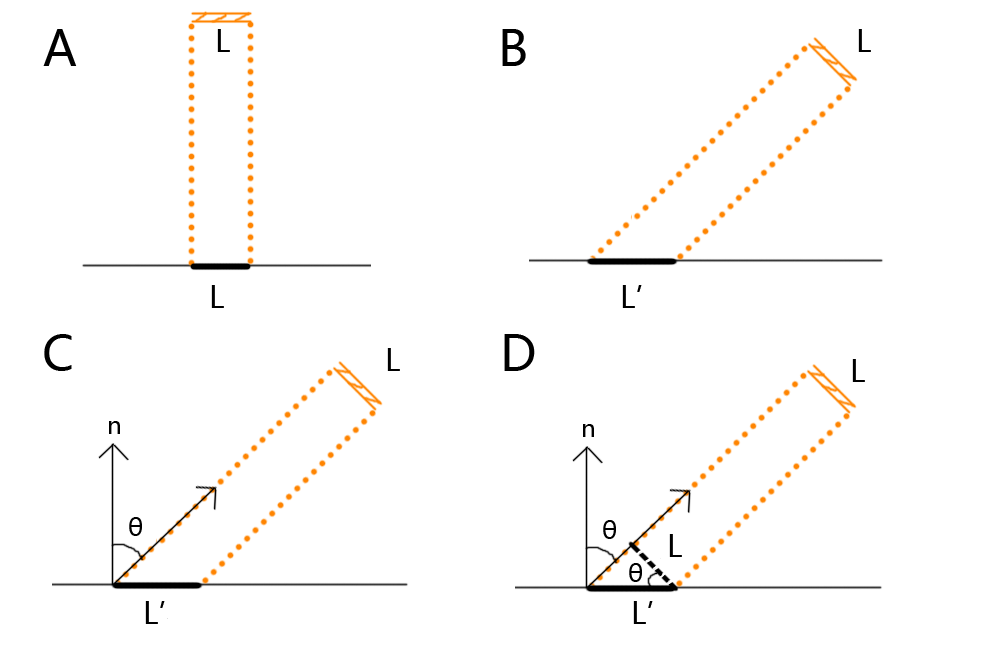
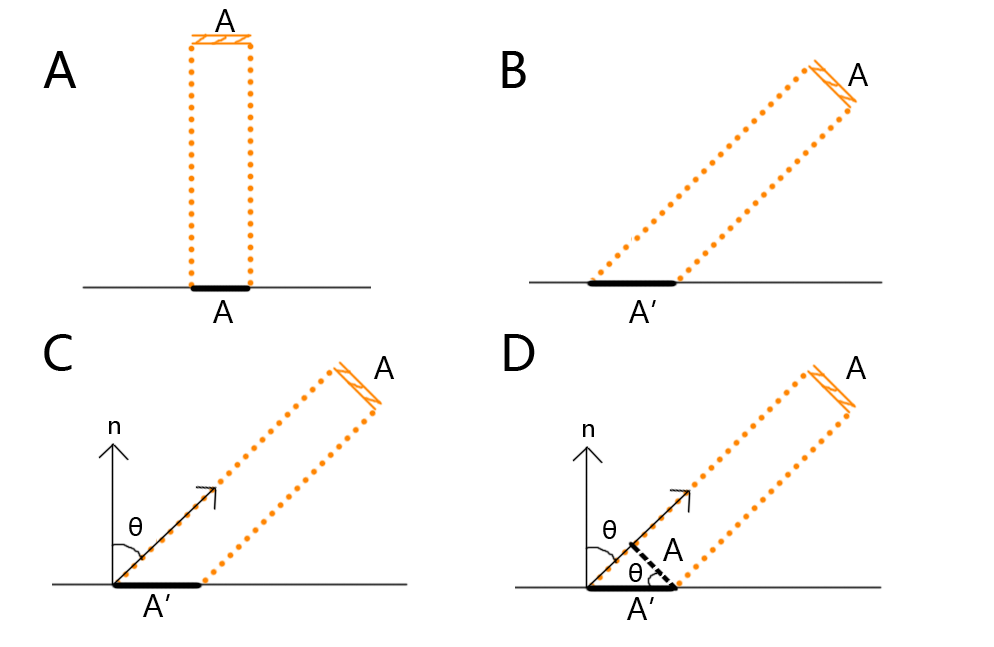
no message

diff --git a/_posts/2016-07-09-rendering-equation.md b/_posts/2016-07-09-rendering-equation.md
@@ -20,37 +20,39 @@ published: true
 
 ## 辐射密度(Irradiance) 和 辐射照度(Radiant Exitence)
 
-辐射密度也叫辐射度。定义了辐射通量后，就可以定义辐射度了，辐射度指的是单位面积**进入**的辐射通量，单位是\\(W\/m\^\{2\}\\)。根据这个定义用符号E表示。
+辐射密度也叫辐射照度。定义了辐射通量后，就可以定义辐射照度了，辐射照度指的是单位面积**进入**的辐射通量，单位是\\(W\/m\^\{2\}\\)。根据这个定义用符号E表示。
 
 辐射照度和辐射密度是近似的东西，辐射照度指的是单位面积**离开**的辐射通量，单位也是\\(W/m\^\{2\}\\)。用符号M表示。
 
-以上面的点光源来分析，可以知道上图中内圆圈的辐射度比外圆圈的辐射度大，这是因为内圆圈的面积更小而点光源的Flux值恒定，所以内圆圈的E值就大。
+以上面的点光源来分析，可以知道上图中内圆圈的辐射照度比外圆圈的辐射照度大，这是因为内圆圈的面积更小而点光源的Flux值恒定，所以内圆圈的E值就大。
 
 用公式表示：
 
 \\[ E = \\frac \{ 点光源辐射通量 \}\{ 球的表面积 \} =  \\frac \{\\Phi\}\{4\\pi r\^\{2\} \} \\]
 
-可见，W恒定，半径r越小，那么辐射度E越大。
+可见，W恒定，半径r越小，那么辐射照度E越大。
 
 当假设光源在无限远处时，可把光源认为是一块平面（这种光源叫方向光）。此时，光源平面与被照射平面存在2种情形：光源平面与被照射平面平行（下图中的A）、光源平面与被照射平面不平行（下图中的B）：
 
 ![5.png](../images/2016.7/5.png)
 
+(图中的平面附近的A指的是面积Area)
+
 当光源平面与被照射平面平行时，有：
 
-\\[ E\_\{1\} = \\frac \{\\Phi\}\{ L \} \\]
+\\[ E\_\{1\} = \\frac \{\\Phi\}\{ A \} \\]
 
-当光源平面与被照射平面不平行时，需要根据平面的法向量和光线方向的夹角θ，先求出\\( L\^\{'\} \\)：
+当光源平面与被照射平面不平行时，需要根据平面的法向量和光线方向的夹角θ，先求出\\( A\^\{'\} \\)：
 
-\\[ cos\\theta = \\frac \{ L \}\{ L\^\{'\} \}  \\]
+\\[ cos\\theta = \\frac \{ A \}\{ A\^\{'\} \}  \\]
 
-\\[ L\^\{'\}= \\frac \{ L \}\{ cos\\theta \}  \\]
+\\[ A\^\{'\}= \\frac \{ A \}\{ cos\\theta \}  \\]
 
 于是得到：
 
-\\[ E\_\{2\} = \\frac \{\\Phi\}\{ L\^\{'\} \} =  \\frac \{\\Phi\}\{ \\frac \{ L \}\{ cos\\theta \}  \} =  \frac \{  \\Phi  cos\\theta  \}\{ L \} \\]
+\\[ E\_\{2\} = \\frac \{\\Phi\}\{ A\^\{'\} \} =  \\frac \{\\Phi\}\{ \\frac \{ A \}\{ cos\\theta \}  \} =  \frac \{  \\Phi  cos\\theta  \}\{ A \} \\]
 
-根据这个式子，可以想到，当θ逼近0度时，cosθ等于1，法向量和光线方向平行（上图中的A）；当θ逼近90度时，cosθ等于0，辐射度E为0（光线垂直于法向量了）。
+根据这个式子，可以想到，当θ逼近0度时，cosθ等于1，法向量和光线方向平行（上图中的A）；当θ逼近90度时，cosθ等于0，辐射照度E为0（光线垂直于法向量了）。
 
 
 ## 立体角(Solid Angle)
@@ -67,3 +69,25 @@ published: true
 
 因为球体表面积等于\\( 4πr\^\{2\} \\)，所以上面的式子积分到整个球体的话，立体角等于4π。
 
+
+## 辐射强度(Intensity)
+
+辐射强度指**辐射通量和立体角**的比值，符号是I。注意，这里的立体角是有朝向性。
+
+\\[ I = \\frac \{ \\Phi \}\{d\\Omega \} \\]
+
+因为定义中用到了立体角，立体角只存在在点光源中，所以辐射强度是对点光源才有意义的。
+
+## 辐射亮度(Radiance)
+
+辐射亮度是指辐射通量与单位面积单位立体角的比值。符号为L。定义式如下：
+
+\\[ L = \\frac \{ d\\Phi \}\{ d\\Omega dA\^\{\\perp \} \} \\]
+
+或：
+
+\\[ L = \\frac \{ I \}\{  dA\^\{\\perp \} \}  \\]
+
+物体含义如下图所示：
+
+![7.png](../images/2016.7/7.png)
